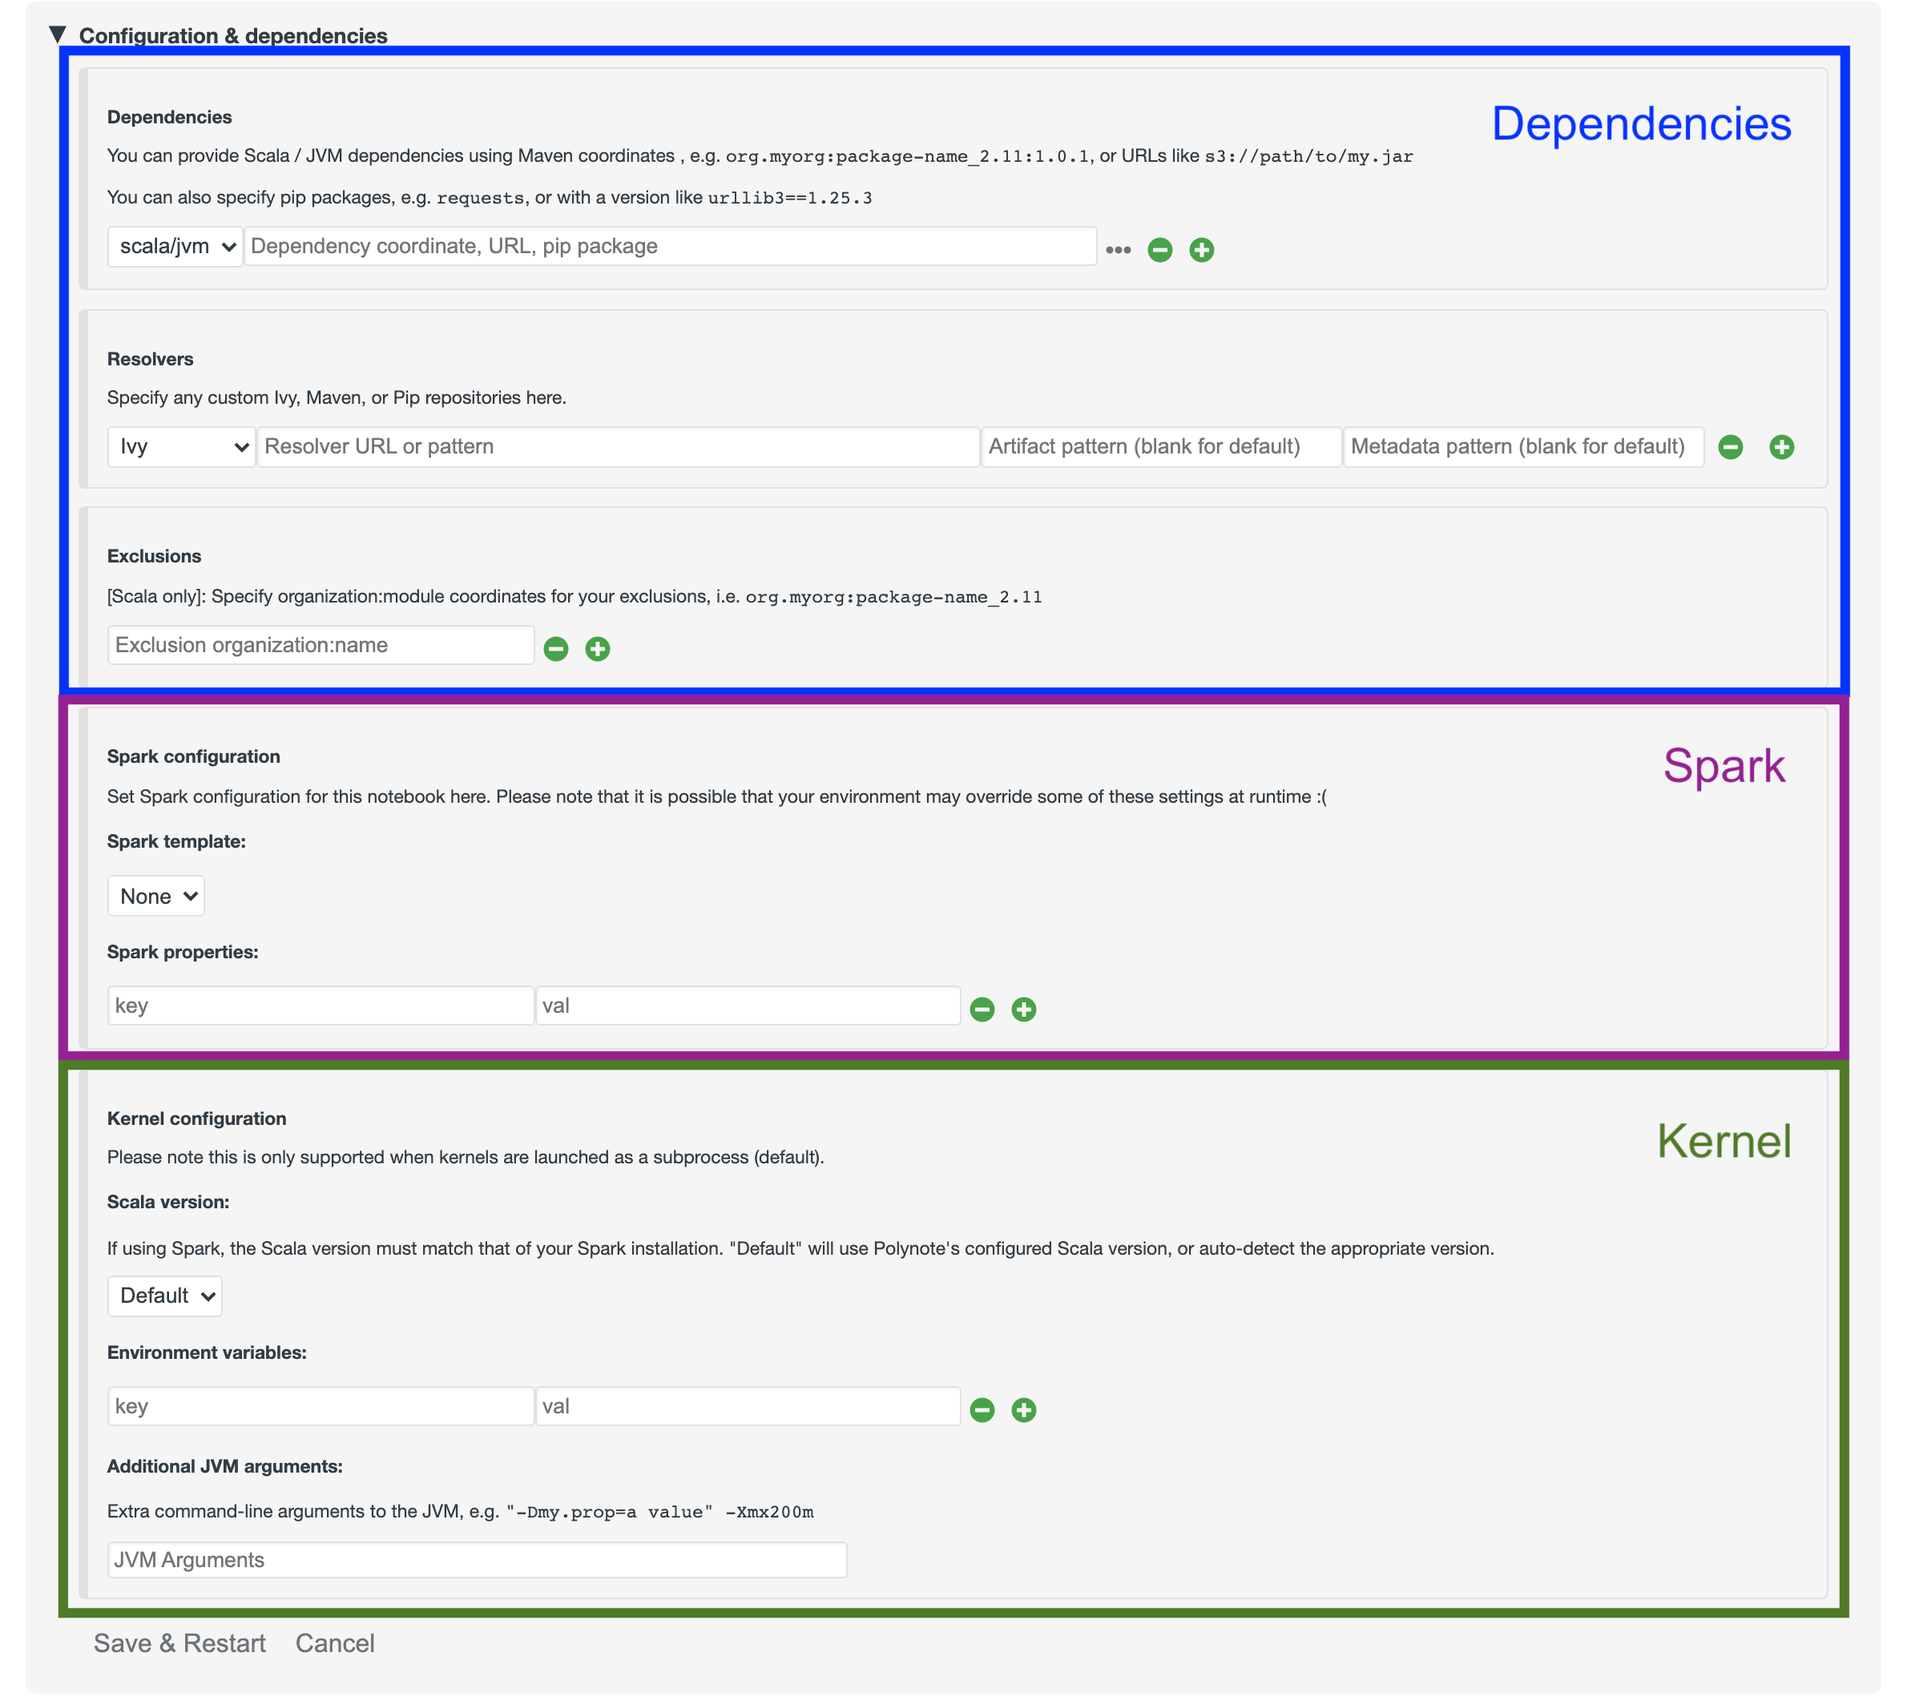
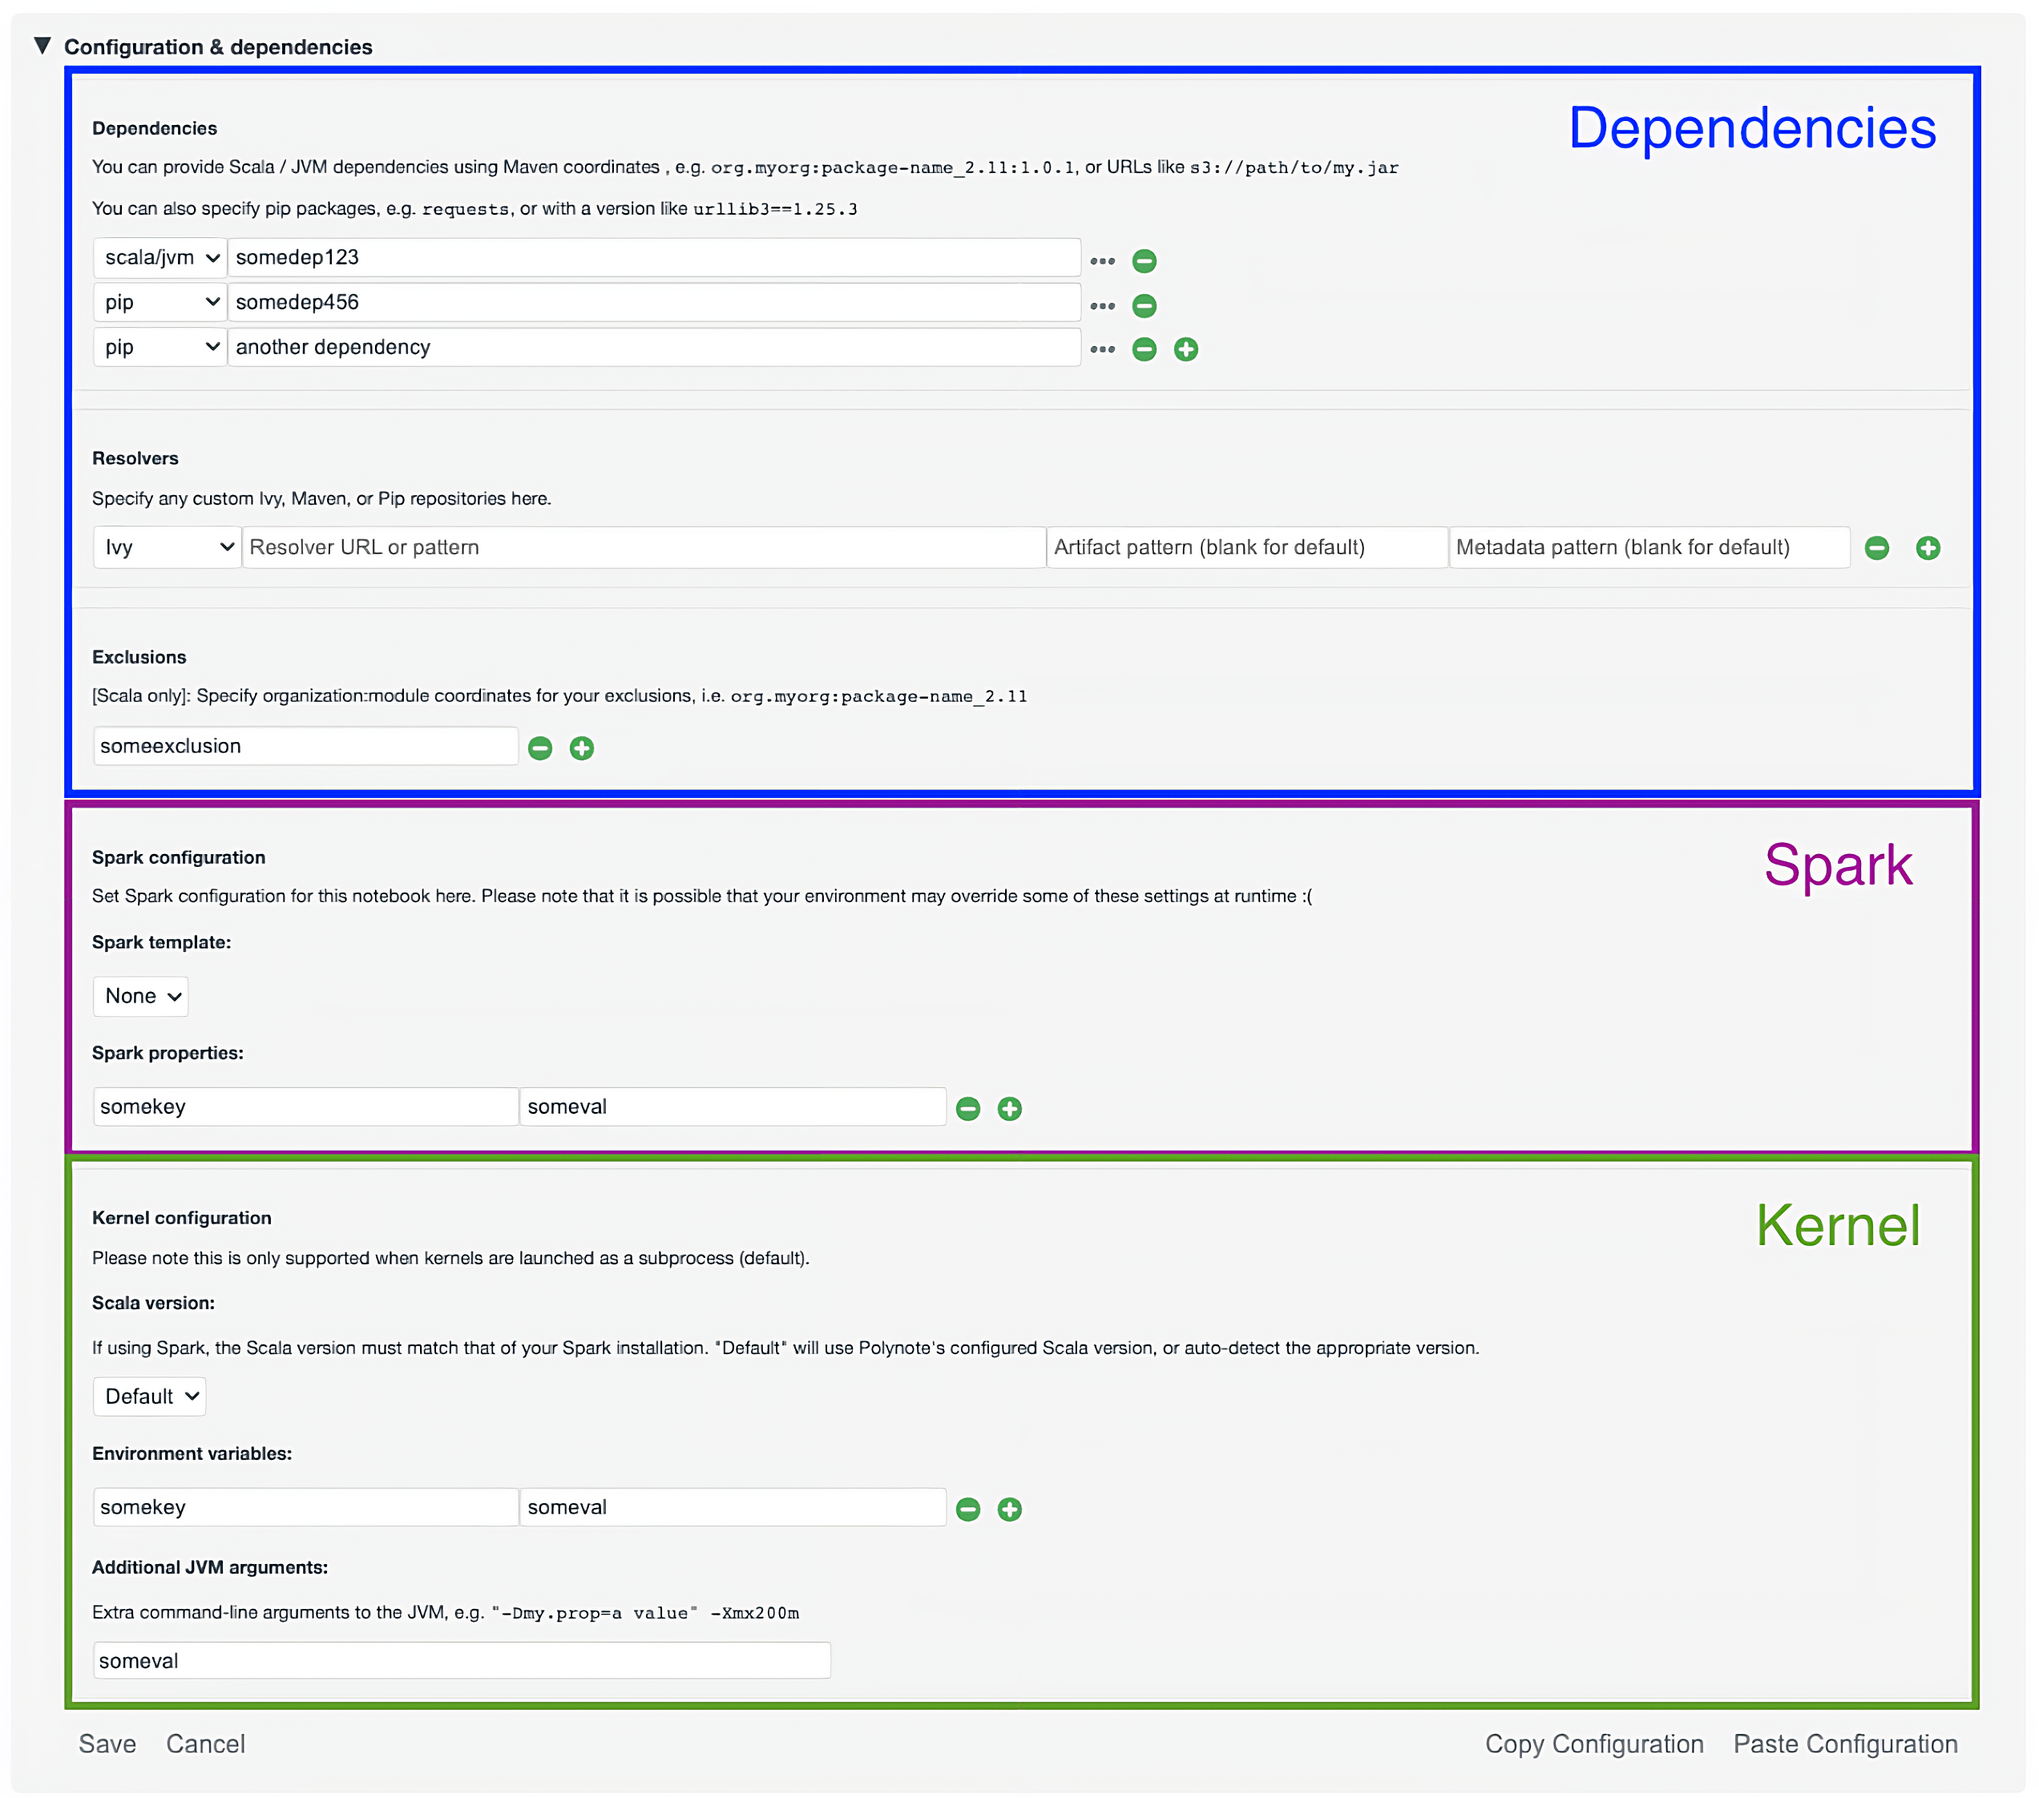
Add support for copying and pasting notebook configurations

diff --git a/polynote-frontend/polynote/ui/component/notebook/notebookconfig.ts b/polynote-frontend/polynote/ui/component/notebook/notebookconfig.ts
@@ -26,25 +26,33 @@ import {KernelStatusString} from "../../../data/messages";
 import {NBConfig} from "../../../state/notebook_state";
 import {joinQuotedArgs, parseQuotedArgs} from "../../../util/helpers";
 import {ServerStateHandler} from "../../../state/server_state";
+import {copyToClipboard} from "./cell";
 
 export class NotebookConfigEl extends Disposable {
     readonly el: TagElement<"div">;
+    private readonly stateHandler: StateHandler<NBConfig>;
 
     constructor(dispatcher: NotebookMessageDispatcher, stateHandler: StateHandler<NBConfig>, kernelStateHandler: StateView<KernelStatusString>) {
         super()
 
+        this.stateHandler = stateHandler;
+
         const configState = stateHandler.view("config");
-        const dependencies = new Dependencies(configState.view("dependencies"));
-        const exclusions = new Exclusions(configState.view("exclusions"));
-        const resolvers = new Resolvers(configState.view("repositories"));
-        const serverTemplatesHandler = ServerStateHandler.view("sparkTemplates").disposeWith(configState);
-        const spark = new SparkConf(configState.view("sparkConfig"), configState.view("sparkTemplate"), serverTemplatesHandler);
+        const dependenciesHandler = configState.view("dependencies");
+        const exclusionsHandler = configState.view("exclusions");
+        const resolversHandler = configState.view("repositories");
+        const sparkServerTemplatesHandler = ServerStateHandler.view("sparkTemplates").disposeWith(configState);
+        const sparkConfigHandler = configState.view("sparkConfig");
+        const sparkConfigTemplatesHandler = configState.view("sparkTemplate");
+
+        const dependencies = new Dependencies(dependenciesHandler);
+        const exclusions = new Exclusions(exclusionsHandler);
+        const resolvers = new Resolvers(resolversHandler);
+        const spark = new SparkConf(sparkConfigHandler, sparkConfigTemplatesHandler, sparkServerTemplatesHandler);
         const kernel = new KernelConf(configState);
 
         const saveButton = button(['save'], {}, ['Save & Restart']).click(evt => {
-            const conf = new NotebookConfig(dependencies.conf, exclusions.conf, resolvers.conf, spark.conf, spark.template, kernel.envVars, kernel.scalaVersion, kernel.jvmArgs);
-            this.el.classList.remove("open");
-            stateHandler.updateField("config", () => setValue(conf))
+            this.saveConfig(new NotebookConfig(dependencies.conf, exclusions.conf, resolvers.conf, spark.conf, spark.template, kernel.envVars, kernel.scalaVersion, kernel.jvmArgs), true);
         })
 
         this.el = div(['notebook-config'], [
@@ -56,10 +64,19 @@ export class NotebookConfigEl extends Disposable {
                 spark.el,
                 kernel.el,
                 div(['controls'], [
-                    saveButton,
-                    button(['cancel'], {}, ['Cancel']).click(evt => {
-                        stateHandler.updateField("open", () => setValue(false))
-                    })
+                    div([], [
+                        saveButton,
+                        button(['cancel'], {}, ['Cancel']).click(evt => {
+                            stateHandler.updateField("open", () => setValue(false))
+                        })
+                    ]),
+                    div([], [
+                        button([], {}, ['Copy Configuration']).click(() => {
+                            const conf = new NotebookConfig(dependencies.conf, exclusions.conf, resolvers.conf, spark.conf, spark.template, kernel.envVars, kernel.scalaVersion, kernel.jvmArgs);
+                            this.copyConfig(conf);
+                        }),
+                        button([], {}, ['Paste Configuration']).click(() => this.pasteConfig())
+                    ])
                 ])
             ])
         ]);
@@ -84,6 +101,33 @@ export class NotebookConfigEl extends Disposable {
                 this.el.classList.remove("open")
             }
         }).disposeWith(this)
+    }
+
+    private saveConfig(conf: NotebookConfig, closeConfigSection: boolean = false) {
+        if (closeConfigSection)
+            this.el.classList.remove("open");
+        this.stateHandler.updateField("config", () => setValue(conf));
+    }
+
+    private copyConfig(conf: NotebookConfig) {
+        this.saveConfig(conf);
+        copyToClipboard(JSON.stringify(conf));
+    }
+
+    private pasteConfig() {
+        navigator.clipboard.readText().then(clipText => {
+            let paste: NotebookConfig;
+            let conf: NotebookConfig | undefined = undefined;
+
+            try {
+                paste = JSON.parse(clipText);
+                conf = new NotebookConfig(paste.dependencies, paste.exclusions, paste.repositories, paste.sparkConfig, paste.sparkTemplate, paste.env, paste.scalaVersion, paste.jvmArgs);
+                this.saveConfig(conf)
+            } catch (e) {
+                console.error("Paste failed - the following clipboard value is not valid JSON:", paste!);
+                console.error(e);
+            }
+        });
     }
 }
 

diff --git a/polynote-frontend/style/styles.less b/polynote-frontend/style/styles.less
@@ -1989,6 +1989,11 @@ button.inspect.icon-button {
   .icon {
     font-size: 16px;
   }
+
+  .controls {
+    display: flex;
+    justify-content: space-between;
+  }
 }
 
 button {

diff --git a/docs-site/docs/docs/notebook-configuration.md b/docs-site/docs/docs/notebook-configuration.md
@@ -98,3 +98,12 @@ In the second section, you can also add **Environment Variables** that will be m
 
 Finally, in the last section you can add any additional **JVM Arguments** that Polynote will set when it launches the 
 Kernel process. 
+
+### Copying Configurations 
+
+The copy and paste buttons below the last section offer easy access to copy all three sections between notebooks. 
+
+When you click the `Copy Configurations` button, your selections will automatically be saved and copied to your clipboard. 
+
+When you click the `Paste Configurations` button, your selections will automatically update and save if the 
+contents of your clipboard represent a valid notebook configuration. 
